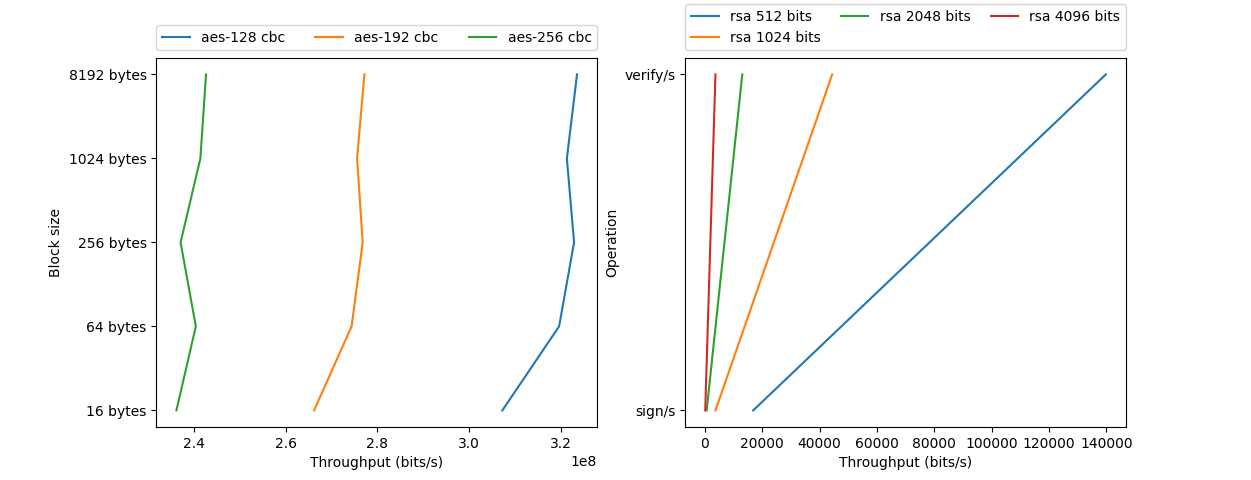
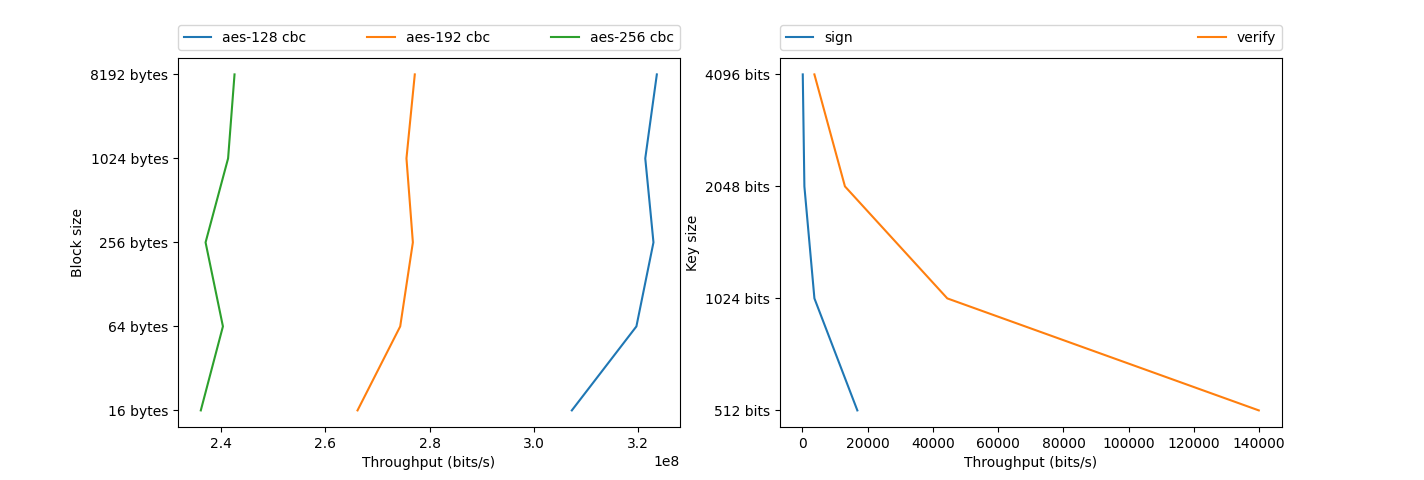
adding figure

diff --git a/BlockCiphers/src/task3.py b/BlockCiphers/src/task3.py
@@ -47,6 +47,8 @@ def main():
     # plot rsa data
     rsa_axis.plot('sign/s', 'type', data=rsa_df, label='sign')
     rsa_axis.plot('verify/s', 'type', data=rsa_df, label='verify')
+    rsa_axis.set_xlabel('Throughput (bits/s)')
+    rsa_axis.set_ylabel('Key size')
     rsa_axis.legend(bbox_to_anchor=(0,1.02,1,0.2), loc="lower left",
                     mode="expand", borderaxespad=0, ncol=3)
 
